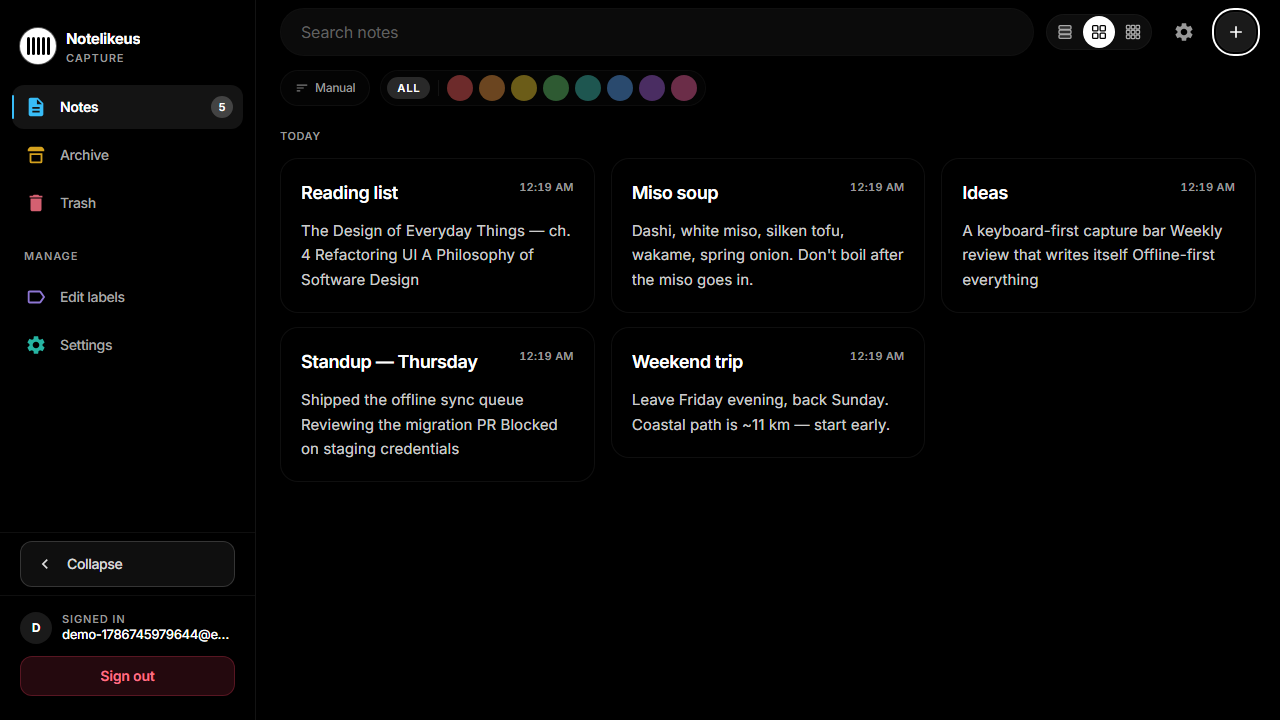
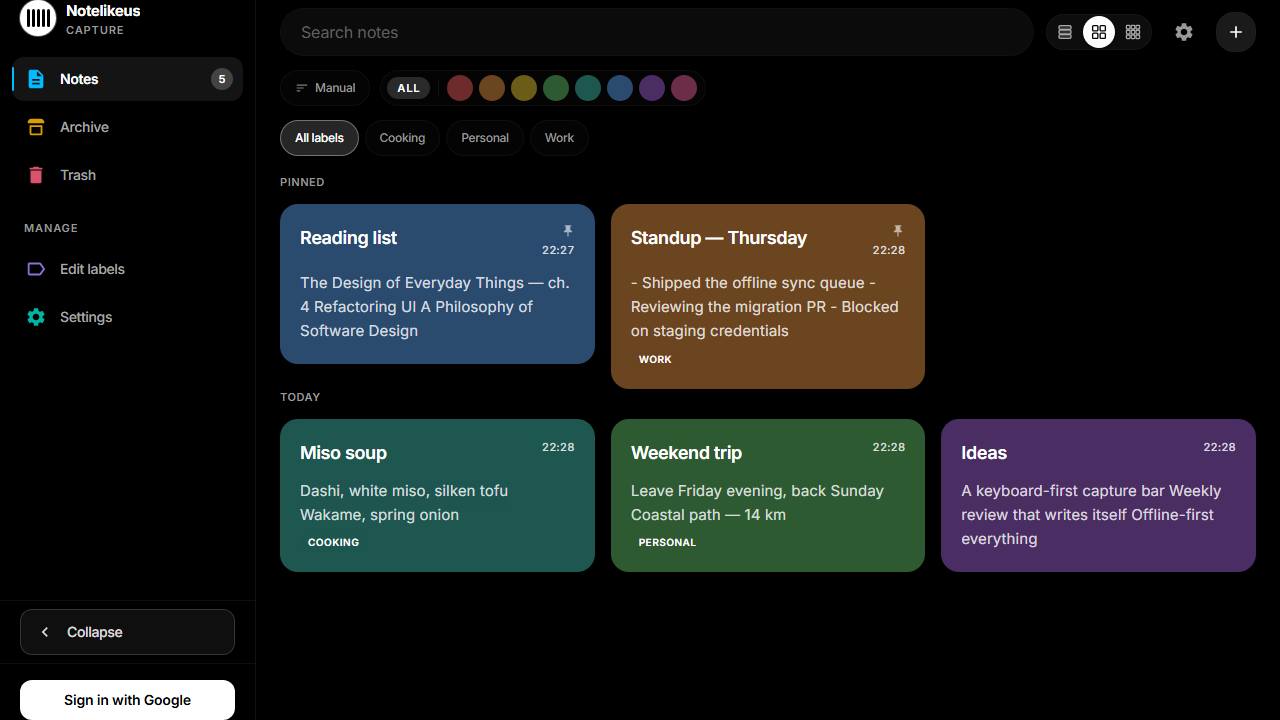
Update GitHub README screenshots and 1.0.2 appearance copy

diff --git a/README.md b/README.md
@@ -1,6 +1,6 @@
 # Notelikeus
 
-A notes app for **Android**, **Windows**, and the **web** — one product, three real clients, sharing a Kotlin Multiplatform core and a React PWA that speaks the same data model.
+A notes app for **Android**, **Windows**, and the **web** — one product, three real clients, sharing a Kotlin Multiplatform core and a React PWA that speaks the same data model. Current release: **[1.0.2](https://github.com/shareef01/notelikeus/releases/tag/v1.0.2)**.
 
 It started as the app I actually wanted to use: something as quick as Google Keep, that works with no signal and no account, and that doesn't hold my notes hostage in one vendor's cloud. Everything here follows from that — local storage first, sync as an optional layer on top, and a backup format I can read without the app.
 
@@ -13,23 +13,23 @@ It started as the app I actually wanted to use: something as quick as Google Kee
 ### Windows
 
 <p align="center">
-  <img src="screenshots/desktop-notes.png" width="90%" alt="Notelikeus on Windows — pinned notes, date-grouped sections, labels, and a collapsible side rail" />
+  <img src="screenshots/desktop-notes.png" width="90%" alt="Notelikeus on Windows — pinned notes, labels, colour filters, and a collapsible side rail" />
 </p>
 
 ### Web
 
 <p align="center">
-  <img src="screenshots/web-notes.png" width="49%" alt="Web app note grid with sidebar, colour filters, and view-density toggle" />
-  <img src="screenshots/web-editor.png" width="49%" alt="Web app note editor" />
+  <img src="screenshots/web-notes.png" width="49%" alt="Web app note grid with pinned notes, colour and label filters, and List / Grid / Compact toggles" />
+  <img src="screenshots/web-editor.png" width="49%" alt="Web app note editor with rich-text toolbar" />
 </p>
 
 ### Android
 
 <p align="center">
-  <img src="screenshots/android-notes.png" width="24%" alt="Android notes list with colour filters and date grouping" />
-  <img src="screenshots/android-drawer.png" width="24%" alt="Android navigation drawer" />
+  <img src="screenshots/android-notes.png" width="24%" alt="Android notes list with pinned cards, filters, and List / Grid / Compact" />
+  <img src="screenshots/android-drawer.png" width="24%" alt="Android navigation drawer — Notes, Archive, Trash, and smart views" />
   <img src="screenshots/android-editor.png" width="24%" alt="Android note editor with rich-text toolbar" />
-  <img src="screenshots/android-settings.png" width="24%" alt="Android settings — six themes, app lock, and sync controls" />
+  <img src="screenshots/android-settings.png" width="24%" alt="Android settings — System / Light / Dark, accent, AMOLED, and app lock" />
 </p>
 
 ---
@@ -58,7 +58,7 @@ It started as the app I actually wanted to use: something as quick as Google Kee
 | Manual reorder (list view) | ✓ | ✓ | ✓ |
 | Date-grouped sections | ✓ | ✓ | ✓ |
 | Collapsible side rail (persisted) | — (drawer) | ✓ | ✓ |
-| Themes (light, dark, OLED, midnight, forest, auto) | ✓ | ✓ | ✓ |
+| Appearance (System / Light / Dark, AMOLED, accent) | ✓ | ✓ | ✓ |
 | Rich text (bold, italic, links, bullets) | ✓ | ✓ | ✓ |
 | Reminders | System notifications | Tray (missed ones surface at next launch) | Service worker |
 | Encrypted local database | ✓ SQLCipher | — | — |
